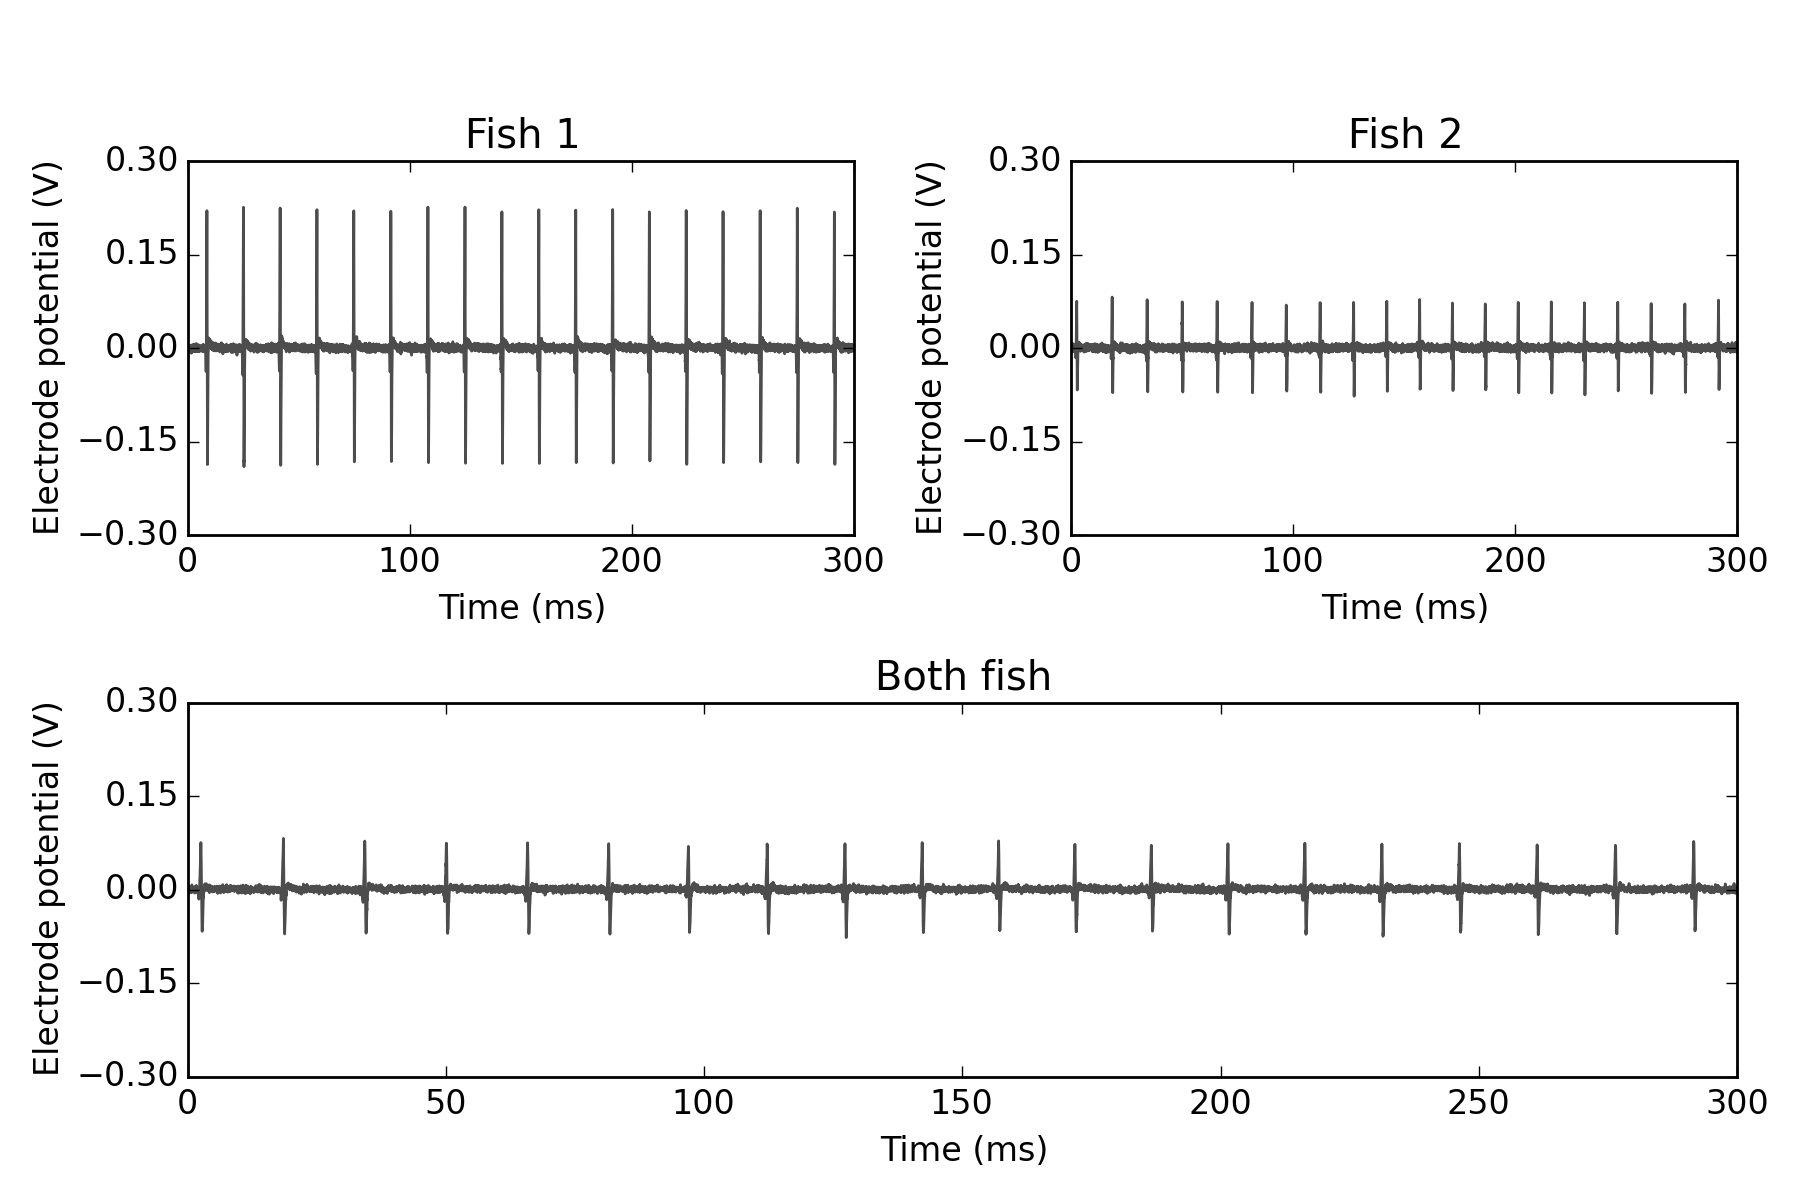
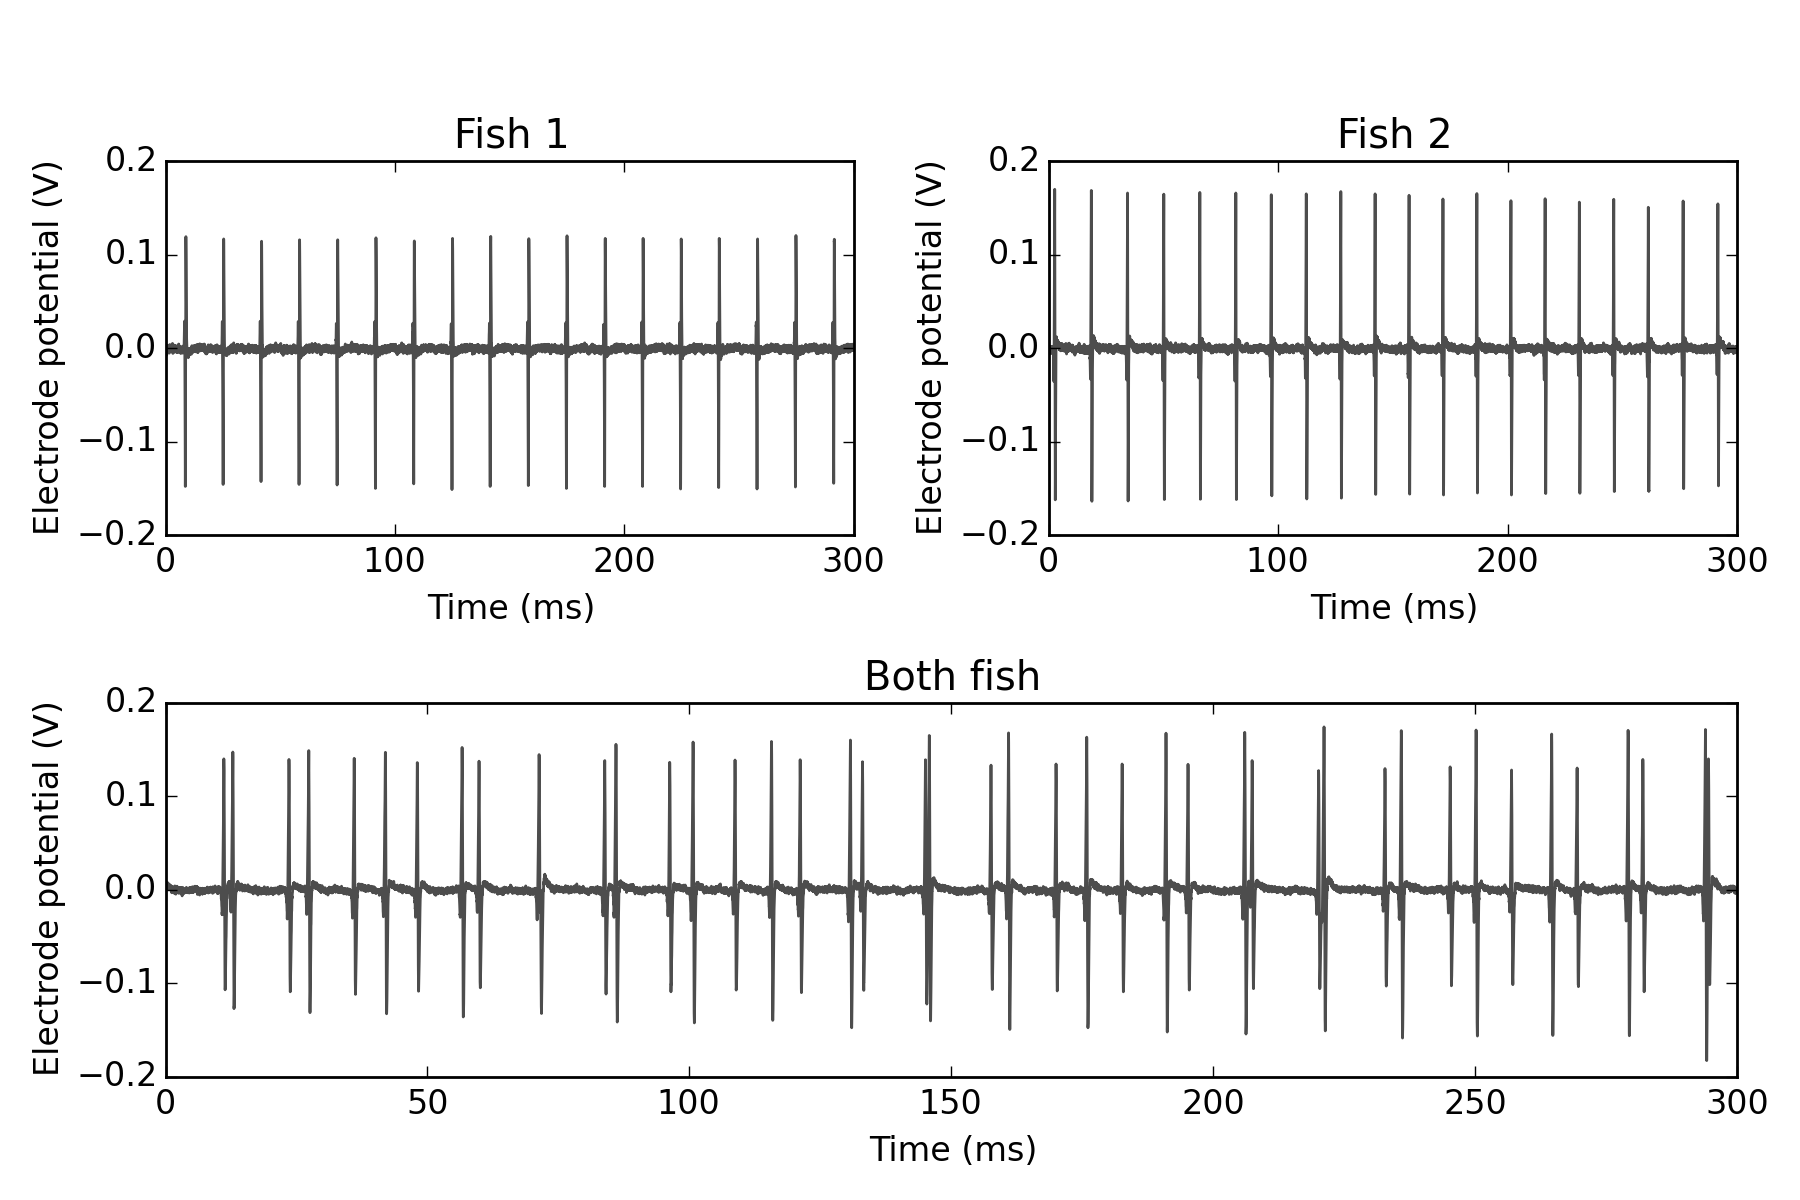
Figure is now with appropriate time series.

diff --git a/examples/JPhysiol_Paris Example Reading Data/plot_example.py b/examples/JPhysiol_Paris Example Reading Data/plot_example.py
@@ -8,7 +8,7 @@ import pylab as pl
 
 # Parameters
 tf      = 300.   # in miliseconds
-channel = 2      # channel id
+channel = 4      # channel id
 
 # Definitions
 freq    = 45454.545454
@@ -39,8 +39,8 @@ ax_f1.set_title("Fish 1")
 ax_f1.set_xlabel("Time (ms)")
 ax_f1.set_xticks(np.arange(0,301,100))
 ax_f1.set_ylabel("Electrode potential (V)")
-ax_f1.set_ylim(-0.3,0.3)
-ax_f1.set_yticks(np.arange(-0.3,0.31,0.15))
+ax_f1.set_ylim(-0.2,0.2)
+ax_f1.set_yticks(np.arange(-0.2,0.21,0.1))
 
 
 # Plotting fish 2
@@ -52,12 +52,12 @@ ax_f2.set_title("Fish 2")
 ax_f2.set_xlabel("Time (ms)")
 ax_f2.set_xticks(np.arange(0,301,100))
 ax_f2.set_ylabel("Electrode potential (V)")
-ax_f2.set_ylim(-0.3,0.3)
-ax_f2.set_yticks(np.arange(-0.3,0.31,0.15))
+ax_f2.set_ylim(-0.2,0.2)
+ax_f2.set_yticks(np.arange(-0.2,0.21,0.1))
 
 
 # Plotting both fish together
-X = np.memmap("15o04001.abf.memampf32", dtype=np.float32)
+X = np.memmap("15o03000.abf.memampf32", dtype=np.float32)
 Ch = X[channel::11]
 ax_2f.plot(t, Ch[:npoints], '-', color=color)
 
@@ -65,8 +65,8 @@ ax_2f.set_title("Both fish ")
 ax_2f.set_xlabel("Time (ms)")
 ax_2f.set_xticks(np.arange(0,301,50))
 ax_2f.set_ylabel("Electrode potential (V)")
-ax_2f.set_ylim(-0.3,0.3)
-ax_2f.set_yticks(np.arange(-0.3,0.31,0.15))
+ax_2f.set_ylim(-0.2,0.2)
+ax_2f.set_yticks(np.arange(-0.2,0.21,0.1))
 
 
 

diff --git a/examples/JPhysiol_Paris Example Reading Data/Readme.md b/examples/JPhysiol_Paris Example Reading Data/Readme.md
@@ -1,10 +1,18 @@
-JPhysiol_Paris Example Reading Data
+Data from dominance contest of dyads of Gymnotus sp.
 ====
 
-We present a simple example of how to load and plot a dataset that we have recently shared publicly, containing time series of electric pulses from dyads of freely moving Gymnotus carapo.
+We present a simple example of how to load and plot a dataset that we
+have recently shared publicly, containing time series of electric
+pulses from dyads of freely moving Gymnotus sp. Because both fish are
+completely free to swim, *a challenge* is to detect which pulses were
+discharged by each of the fish. The figure below gives a glimpse of
+the dataset: there are two time series where fish 1 and 2 were alone
+in the aquarium (top panels), and a third time series where both fish
+were in the same aquarium, free to move and interact. This dataset was
+used in two of our most recent papers ([see
+below](https://github.com/thmosqueiro/gymnotools/tree/master/examples/JPhysiol_Paris%20Example%20Reading%20Data#relevant-papers)).
 
 <img src="https://github.com/thmosqueiro/gymnotools/raw/master/examples/JPhysiol_Paris%20Example%20Reading%20Data/Example%20of%20Plot.png"  width=500px style="float: left; margin: 0 0 10px 10px;" />
-
 
 
 Download the dataset
